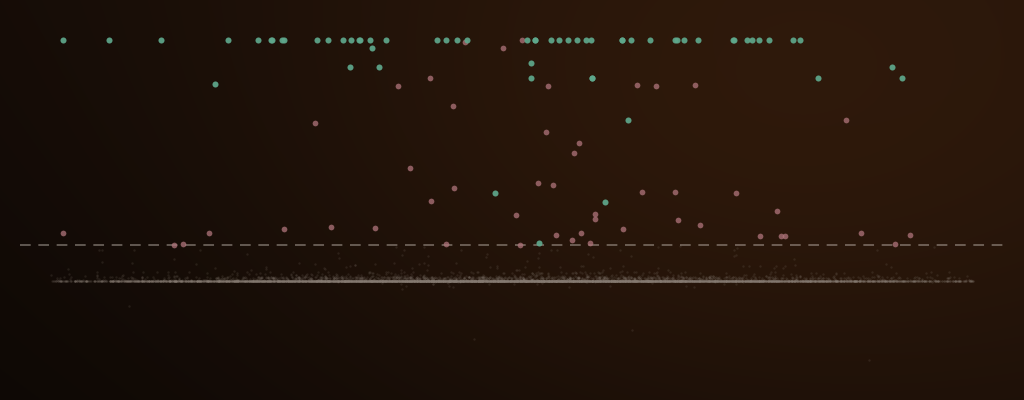
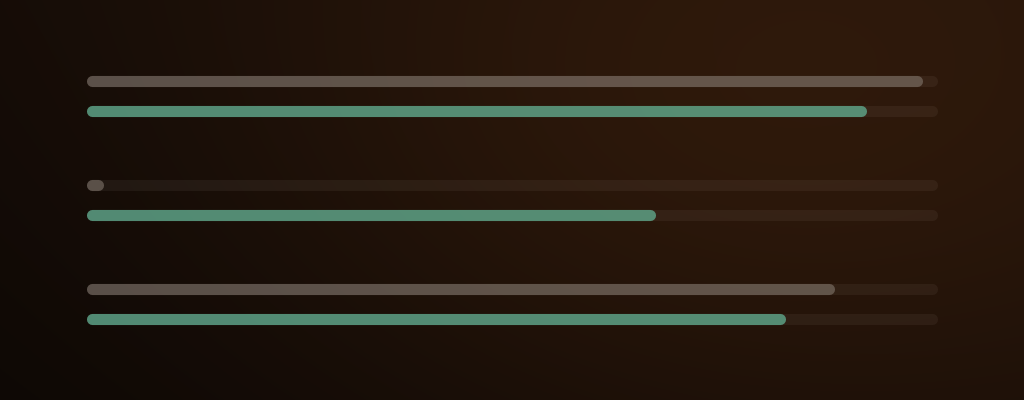
fix: Renumber the listing and leave two projects featured

diff --git a/scripts/backgrounds/fraud_stream.py b/scripts/backgrounds/fraud_stream.py
@@ -1,52 +1,49 @@
-"""Fraud Stream Detection: one held-out day against the operating point.
+"""Fraud Stream Detection: which fraud pattern each set of features can see.
 
-Every transaction of 2018-07-20 scored by the served detector. The dashed rule is
-the threshold written by training, the band below it is ordinary traffic, and the
-points above it are the day's alerts, split by whether the dispute resolved as
-fraud. The scores are real: `fraud_stream_scores.py` writes the file this reads.
+Three rails, one per pattern the simulator injects. The upper fill is the recall
+the detector reaches from the transaction stream alone, the lower one what it
+reaches once features derived from resolved disputes are added. The middle rail is
+the finding: a compromised terminal spends ordinary amounts, so nothing in the
+stream distinguishes it, and only labels that arrive a week late reach it.
+
+Recall at a budget of 100 alerts a day, measured on 813,843 held-out transactions.
 """
 
 from __future__ import annotations
 
-from pathlib import Path
+from palette import DPI, HIT, MUTED, canvas, ground
 
-import pandas as pd
+# (pattern, recall without label-derived features, recall with them)
+PATTERNS = (
+    ("amount", 0.982, 0.916),
+    ("terminal", 0.007, 0.664),
+    ("card", 0.878, 0.819),
+)
 
-from palette import DPI, HIT, MISS, MUTED, RULE, canvas, ground
+LEFT, RIGHT = 0.09, 0.91
+BAR = 0.040
+GAP = 0.034
+CENTRES = (0.76, 0.50, 0.24)
 
-SCORES = Path(__file__).resolve().parent / "data" / "fraud_stream_scores.parquet"
 
-# The operating point recorded in the artifact the deployment serves.
-THRESHOLD = 0.01643005512716834
-
-# The score distribution has its mass against zero, and a fourth root spreads it
-# enough that the threshold sits inside the frame rather than on its floor.
-def height(score):
-    return 0.10 + 0.80 * (score**0.25)
+def rail(axes, centre: float, offset: float, fraction: float, colour: str, alpha: float) -> None:
+    y = centre + offset
+    axes.plot([LEFT, RIGHT], [y, y], color="#c9bdb2", lw=BAR * 200, alpha=0.07,
+              solid_capstyle="round", zorder=2)
+    axes.plot([LEFT, LEFT + (RIGHT - LEFT) * fraction], [y, y], color=colour, lw=BAR * 200,
+              alpha=alpha, solid_capstyle="round", zorder=3)
 
 
 def main() -> None:
-    day = pd.read_parquet(SCORES)
     background = ground("#0d0805", "#1e1109", "#7a3d12", at=(0.72, 0.30), strength=0.17)
     figure, axes, target = canvas(background, "fraud-stream-bg")
 
-    across = 0.05 + 0.90 * (day.t.to_numpy() / day.t.max())
-    down = height(day.score.to_numpy())
-    rule = height(THRESHOLD)
-
-    alerted = day.score.to_numpy() >= THRESHOLD
-    fraud = day.fraud.to_numpy() == 1
-
-    axes.scatter(across[~alerted], down[~alerted], s=3.0, c=MUTED, alpha=0.16, linewidths=0,
-                 zorder=2)
-    axes.plot([0.02, 0.98], [rule, rule], color=RULE, lw=1.1, alpha=0.5, ls=(0, (7, 5)), zorder=3)
-    axes.scatter(across[alerted & ~fraud], down[alerted & ~fraud], s=17, c=MISS, alpha=0.75,
-                 linewidths=0, zorder=4)
-    axes.scatter(across[alerted & fraud], down[alerted & fraud], s=19, c=HIT, alpha=0.92,
-                 linewidths=0, zorder=5)
+    for centre, (_, without, with_labels) in zip(CENTRES, PATTERNS, strict=True):
+        rail(axes, centre, (BAR + GAP) / 2, without, MUTED, 0.55)
+        rail(axes, centre, -(BAR + GAP) / 2, with_labels, HIT, 0.80)
 
     figure.savefig(target, dpi=DPI, facecolor="#0d0805")
-    print(f"{target}  {int(alerted.sum())} alerts, {int((alerted & fraud).sum())} fraudulent")
+    print(target)
 
 
 if __name__ == "__main__":

diff --git a/scripts/backgrounds/README.md b/scripts/backgrounds/README.md
@@ -26,11 +26,12 @@ and prints the path it wrote.
 | Image | Figure |
 |---|---|
 | `research-copilot-bg.png` | Ten fused candidates entering on the left and leaving in the order the cross-encoder gives them, with one promoted from ninth to first and one demoted from second to ninth |
-| `fraud-stream-bg.png` | Every transaction of one held-out day against the operating point: ordinary traffic below the rule, and the day's 110 alerts above it split into 61 that resolved as fraud and 49 that did not |
+| `fraud-stream-bg.png` | Recall on each of the three fraud patterns, from the transaction stream alone against the same detector given features derived from resolved disputes. The middle rail is the finding: a compromised terminal spends ordinary amounts, so only the late labels reach it |
 
-The fraud figure is drawn from real scores. `fraud_stream_scores.py` regenerates
-`data/fraud_stream_scores.parquet` from a checkout of Fraud-Stream-Detection with
-its corpus ingested; the file is committed so the image can be redrawn without one.
+The recall figures are the ones the case study reports, held in the script itself.
+`fraud_stream_scores.py` and `data/fraud_stream_scores.parquet` remain for the
+score distribution of a single held-out day, which an earlier draft drew and which
+the evaluation still refers to.
 
 ## Images without a script
 
